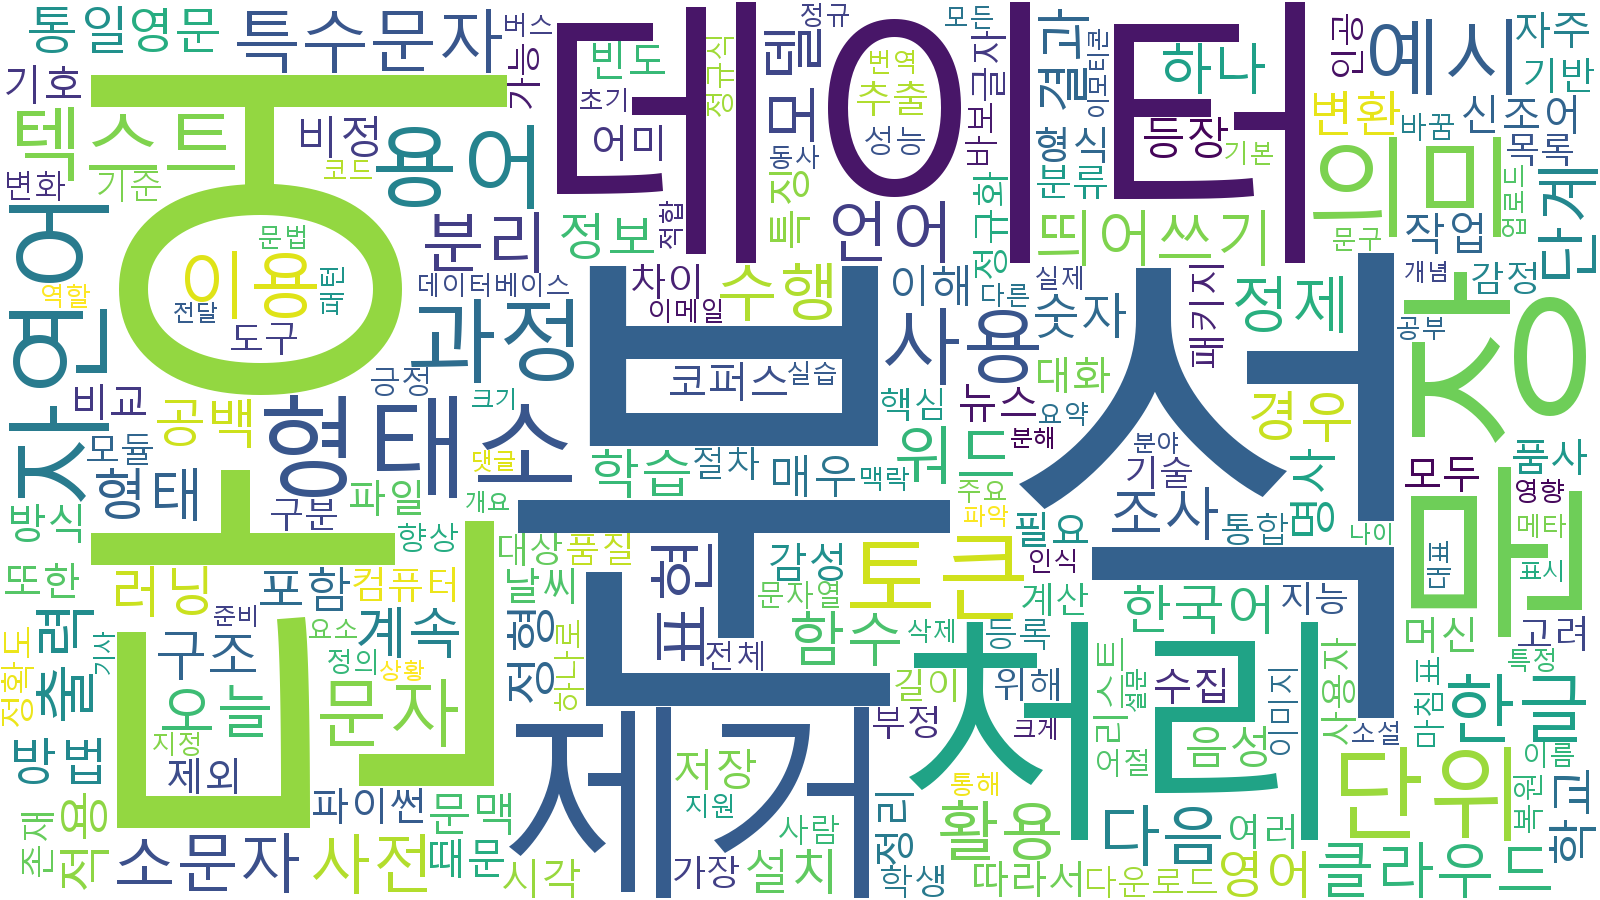
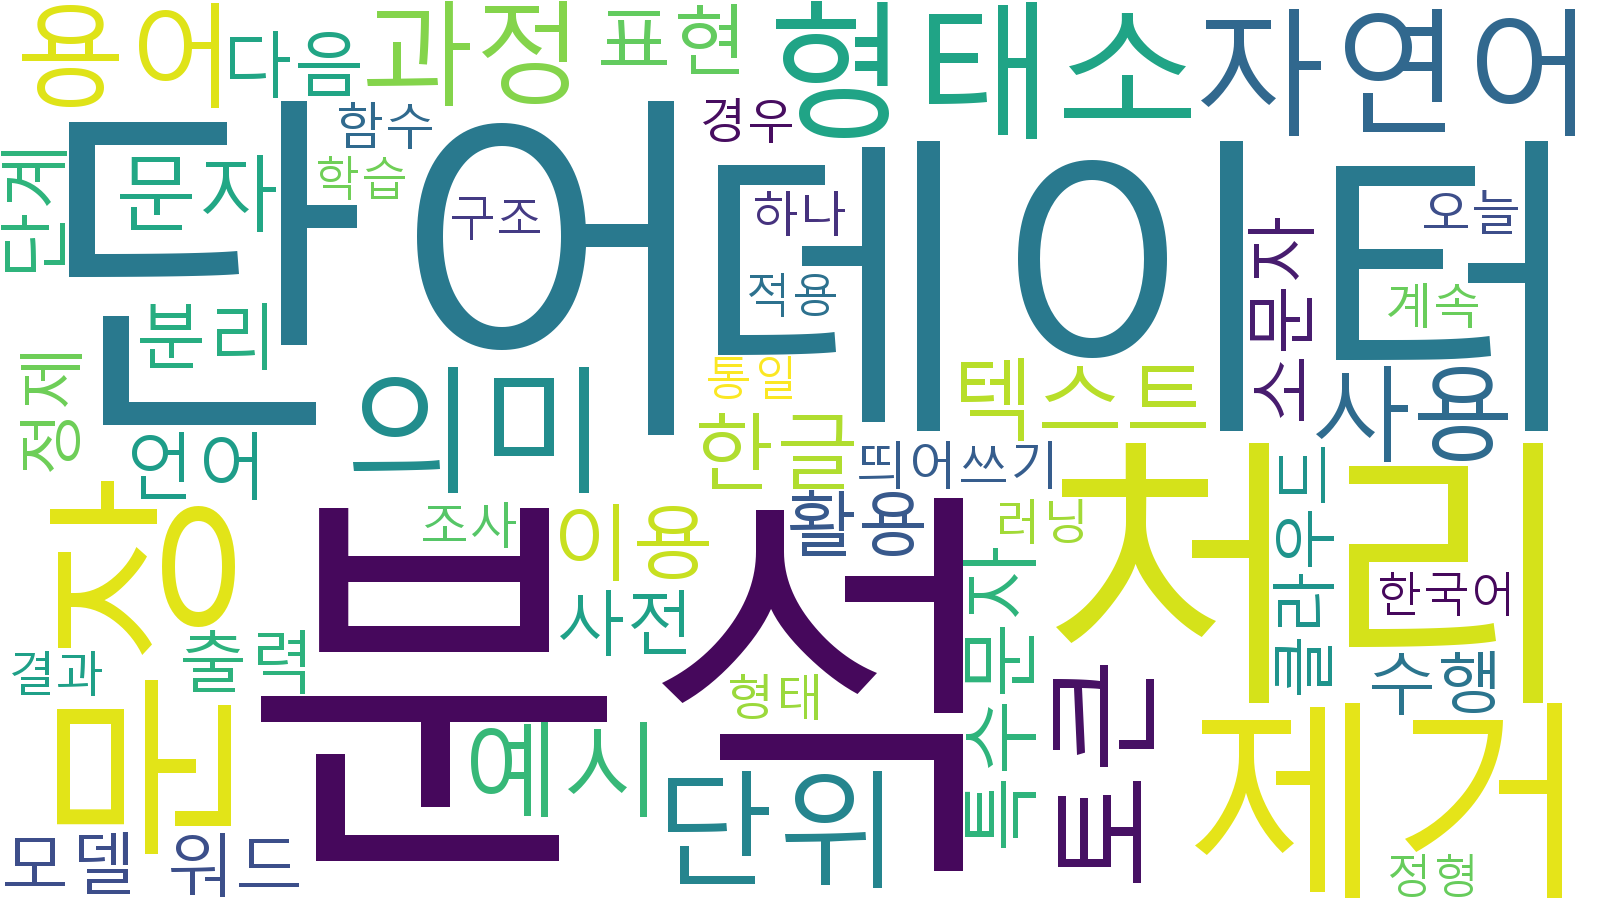
Added report

diff --git a/main.py b/main.py
@@ -4,6 +4,7 @@ from collections import Counter
 
 import torch
 import matplotlib.pyplot as plt
+from matplotlib import font_manager as fm
 from wordcloud import WordCloud, STOPWORDS
 from konlpy.tag import Okt
 
@@ -52,7 +53,7 @@ def make_wordcloud_from_freq(counter, font_path, output_image="wordcloud_ko.png"
         width=1600,
         height=900,
         background_color="white",
-        max_words=200,
+        max_words=100,
         colormap="viridis",
         collocations=False
     ).generate_from_frequencies(counter)
@@ -87,6 +88,11 @@ def make_report_tables(counter, top_n=20):
     return df
 
 def plot_top_words(freq_df, output_image="top_words_bar.png"):
+    font_path = "C:/Windows/Fonts/malgun.ttf"
+    font_name = fm.FontProperties(fname=font_path).get_name()
+    plt.rcParams['font.family'] = font_name
+    plt.rcParams['axes.unicode_minus'] = False
+
     plt.figure(figsize=(10, 6))
     plt.barh(freq_df["word"][::-1], freq_df["frequency"][::-1], color="steelblue")
     plt.xlabel("Frequency")
@@ -113,7 +119,7 @@ def save_wordcloud_from_counter(counter, font_path, output_image="wordcloud_repo
         width=1600,
         height=900,
         background_color="white",
-        max_words=200,
+        max_words=50,
         collocations=False,
         colormap="viridis"
     ).generate_from_frequencies(counter)
@@ -138,3 +144,28 @@ summary_text = (
 )
 
 print(summary_text)
+
+def build_report_paragraph(counter, top_n=10):
+    total_tokens = sum(counter.values())
+    unique_tokens = len(counter)
+    top_items = counter.most_common(top_n)
+
+    if not top_items:
+        return "분석 결과, 유의미한 명사가 충분히 추출되지 않았습니다."
+
+    top_words = [w for w, _ in top_items[:5]]
+    top_word, top_freq = top_items[0]
+    top_word_df = pd.DataFrame(top_items, columns=["word", "frequency"])
+    avg_freq = round(top_word_df["frequency"].mean(), 2)
+
+    paragraph = (
+        f"분석 결과, 총 {total_tokens}개의 명사가 추출되었고 고유 명사는 {unique_tokens}개였다. "
+        f"가장 많이 등장한 단어는 '{top_word}'로 {top_freq}회 나타났으며, "
+        f"상위 빈도 단어는 {', '.join(top_words)} 순으로 확인되었다. "
+        f"상위 {min(top_n, len(top_items))}개 단어의 평균 빈도는 {avg_freq}회로, "
+        f"문서의 핵심 주제가 이들 단어에 집중되어 있음을 보여준다."
+    )
+    return paragraph
+
+report_paragraph = build_report_paragraph(counter, top_n=10)
+print(report_paragraph)

diff --git a/report.md b/report.md
@@ -1,0 +1,43 @@
+# 워드클라우드 및 명사 빈도 분석 보고서
+
+본 보고서는 강의 자료 PDF에서 추출한 텍스트를 기반으로 명사 추출, 불용어 제거, 빈도 계산, 시각화까지 수행한 결과를 정리한 것이다.
+
+분석 결과, 총 3723개의 명사가 추출되었고 고유 명사는 598개였으며, 가장 많이 등장한 단어는 `분석`으로 153회 나타났다.
+
+## 분석 개요
+
+분석 대상 텍스트에서 핵심 명사를 중심으로 빈도를 계산했고, 결과를 표와 그래프로 정리했다. 상위 5개 명사는 `분석`, `단어`, `데이터`, `처리`, `제거`이며, 이들 단어가 전체 문서의 주제를 가장 직접적으로 반영한다.
+
+## 핵심 결과
+
+상위 10개 단어의 평균 빈도는 94.3회로, 특정 주제어가 문서 전반에 걸쳐 반복적으로 사용되었음을 보여준다. 특히 `분석`과 `단어`, `데이터`의 빈도가 높아 텍스트가 텍스트 마이닝, 전처리, 시각화 관련 설명에 집중되어 있음을 시사한다.
+
+![image](top_words_bar.png)
+
+| 순위 | 명사 | 빈도 |
+| :-- | --: | --: |
+| 1 | 분석 | 153 |
+| 2 | 단어 | 123 |
+| 3 | 데이터 | 121 |
+| 4 | 처리 | 95 |
+| 5 | 제거 | 91 |
+
+위 상위 단어들은 첨부된 막대그래프에서도 가장 긴 막대로 확인되며, CSV 파일의 빈도 값과도 일치한다.
+
+## 시각화 해석
+
+![image](wordcloud_report.png)
+
+워드클라우드에서는 `분석`, `단어`, `데이터`, `처리`, `제거`가 가장 크게 배치되어, 빈도 기반 중요도가 직관적으로 드러난다. 반면 `문자`, `형태소`, `자연어`, `토큰`, `용어` 같은 단어도 함께 나타나, 분석 대상 문서가 한국어 텍스트 처리와 관련된 설명 문서임을 뒷받침한다.
+
+막대그래프는 상위 단어들의 상대적 차이를 더 정확하게 보여준다. 특히 `분석`이 1위이고, 그 다음으로 `단어`, `데이터`가 근접한 수준으로 뒤따르며, 이후 `처리`, `제거`가 안정적으로 분포한다.
+
+## 해석
+
+이 결과는 해당 문서가 단순한 일반 텍스트가 아니라, 한국어 자연어 처리와 워드클라우드 생성 과정을 설명하는 기술 문서임을 보여준다. 높은 빈도를 보인 단어들이 모두 전처리, 추출, 분석, 시각화 흐름과 밀접하게 연결되어 있어, 문서의 중심 주제가 매우 일관적이다.
+
+또한 고유 명사 수가 598개로 적지 않다는 점은, 동일한 핵심 개념이 반복되면서도 다양한 보조 용어가 함께 등장했음을 의미한다. 따라서 본 텍스트는 특정 주제를 반복 설명하는 교육형 또는 실습형 문서로 해석하는 것이 타당하다.
+
+## 결론
+
+종합하면, 한국어 텍스트 전처리와 명사 기반 빈도 분석에 초점을 둔 자료이며, `분석` 중심의 반복 구조가 강하게 나타난다. 워드클라우드와 막대그래프는 이 패턴을 시각적으로 잘 보여준다.